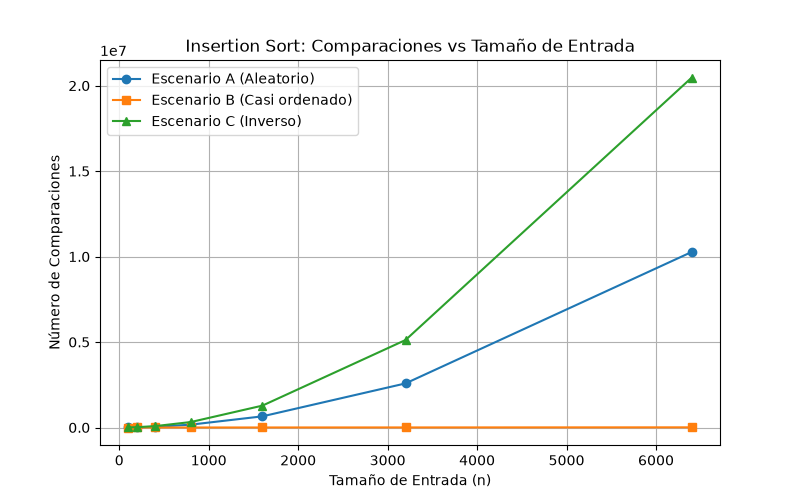
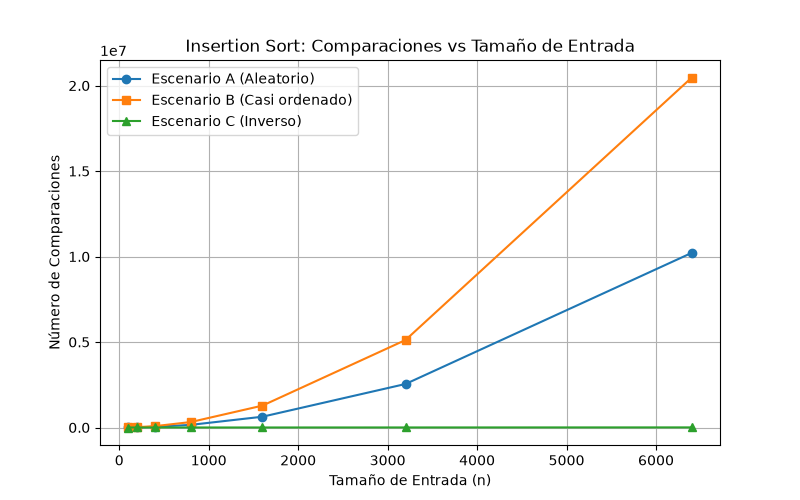
Actualiza codigo, graficas e informe completo de Tamiza para el Laboratorio 1

diff --git a/lab1-fundamentos-complejidad-recurrencias/algoritmos.py b/lab1-fundamentos-complejidad-recurrencias/algoritmos.py
@@ -1,21 +1,19 @@
-"""Módulo de implementación de algoritmos de ordenamiento.
+"""Módulo de algoritmos de ordenamiento con conteo de comparaciones.
 
-Este módulo contiene las implementaciones de Insertion Sort y Merge Sort,
-incluyendo el conteo explícito de comparaciones para análisis de complejidad.
+Implementa Insertion Sort y Merge Sort garantizando orden ascendente (menor a mayor).
 """
 
 
-def insertion_sort(lista: list) -> tuple[list, int]:
-    """Ordena una lista de elementos utilizando el algoritmo Insertion Sort.
+def insertion_sort(datos: list[int]) -> tuple[list[int], int]:
+    """Ordena una lista de enteros en orden ascendente usando Insertion Sort.
 
     Args:
-        lista (list): Lista de elementos comparables a ordenar.
+        datos (list[int]): Lista de números enteros a ordenar.
 
     Returns:
-        tuple[list, int]: Una tupla con la lista ordenada y el número
-        total de comparaciones realizadas.
+        tuple[list[int], int]: Lista ordenada y total de comparaciones realizadas.
     """
-    arr = lista.copy()
+    arr = datos.copy()
     comparaciones = 0
     n = len(arr)
 
@@ -24,7 +22,7 @@ def insertion_sort(lista: list) -> tuple[list, int]:
         j = i - 1
         while j >= 0:
             comparaciones += 1
-            if arr[j] < clave:
+            if arr[j] <= clave:
                 break
             arr[j + 1] = arr[j]
             j -= 1
@@ -34,19 +32,18 @@ def insertion_sort(lista: list) -> tuple[list, int]:
 
 
 def _mezclar(
-    izquierda: list, derecha: list
-) -> tuple[list, int]:
-    """Función auxiliar para combinar dos subarreglos ordenados en Merge Sort.
+    izquierda: list[int], derecha: list[int]
+) -> tuple[list[int], int]:
+    """Mezcla dos listas ordenadas en orden ascendente.
 
     Args:
-        izquierda (list): Subarreglo izquierdo ya ordenado.
-        derecha (list): Subarreglo derecho ya ordenado.
+        izquierda (list[int]): Sublista izquierda ordenada.
+        derecha (list[int]): Sublista derecha ordenada.
 
     Returns:
-        tuple[list, int]: Tupla con la lista combinada ordenada y el conteo
-        de comparaciones realizadas durante la mezcla.
+        tuple[list[int], int]: Sublista unida y total de comparaciones.
     """
-    resultado = []
+    resultado: list[int] = []
     comparaciones = 0
     i = 0
     j = 0
@@ -66,24 +63,21 @@ def _mezclar(
     return resultado, comparaciones
 
 
-def merge_sort(lista: list) -> tuple[list, int]:
-    """Ordena una lista de elementos utilizando el algoritmo Merge Sort.
+def merge_sort(datos: list[int]) -> tuple[list[int], int]:
+    """Ordena una lista de enteros en orden ascendente usando Merge Sort.
 
     Args:
-        lista (list): Lista de elementos comparables a ordenar.
+        datos (list[int]): Lista de números enteros a ordenar.
 
     Returns:
-        tuple[list, int]: Una tupla con la lista ordenada y el número
-        total de comparaciones realizadas durante el proceso.
+        tuple[list[int], int]: Lista ordenada y total de comparaciones realizadas.
     """
-    if len(lista) <= 1:
-        return lista, 0
+    if len(datos) <= 1:
+        return datos.copy(), 0
 
-    medio = len(lista) // 2
-    izq_ordenada, comp_izq = merge_sort(lista[:medio])
-    der_ordenada, comp_der = merge_sort(lista[medio:])
+    medio = len(datos) // 2
+    izq, comp_izq = merge_sort(datos[:medio])
+    der, comp_der = merge_sort(datos[medio:])
 
-    mezclada, comp_mezcla = _mezclar(izq_ordenada, der_ordenada)
-    total_comparaciones = comp_izq + comp_der + comp_mezcla
-
-    return mezclada, total_comparaciones
+    mezclada, comp_mezcla = _mezclar(izq, der)
+    return mezclada, comp_izq + comp_der + comp_mezcla

diff --git a/lab1-fundamentos-complejidad-recurrencias/datos.py b/lab1-fundamentos-complejidad-recurrencias/datos.py
@@ -1,20 +1,56 @@
-"""Generadores de lotes de registros para los escenarios de Tamiza."""
+"""Generadores de datos para pruebas de algoritmos de ordenamiento.
+
+Todos los escenarios asumen un orden objetivo ASCENDENTE (de menor a mayor).
+"""
+
 import random
 
-def generar_aleatorio(n: int, semilla: int = 42) -> list[int]:
-    """Escenario A: Lote en orden aleatorio."""
-    random.seed(semilla)
-    return random.sample(range(0, 10000000), n)
 
-def generar_casi_ordenado(n: int, semilla: int = 42) -> list[int]:
-    """Escenario B: 98% ordenado de mayor a menor y 2% desordenado al final."""
-    random.seed(semilla)
-    n_98 = int(n * 0.98)
-    n_2 = n - n_98
-    base = sorted(random.sample(range(10000, 10000000), n_98), reverse=True)
-    nuevos = random.sample(range(0, 9999), n_2)
-    return base + nuevos
+def generar_escenario_a(n: int, semilla: int = 42) -> list[int]:
+    """Genera el peor caso para orden ascendente: datos en orden descendente.
 
-def generar_inverso(n: int) -> list[int]:
-    """Escenario C: Orden inverso (de menor a mayor riesgo)."""
-    return list(range(n))
+    Args:
+        n (int): Cantidad de elementos a generar.
+        semilla (int, optional): Semilla para reproducibilidad. Valor por defecto: 42.
+
+    Returns:
+        list[int]: Lista de enteros ordenados estrictamente de mayor a menor.
+    """
+    return list(range(n, 0, -1))
+
+
+def generar_escenario_b(n: int, porcentaje_desorden: float = 0.05, semilla: int = 42) -> list[int]:
+    """Genera el mejor caso/casi ordenado: datos casi en orden ascendente con pocas inversiones.
+
+    Args:
+        n (int): Cantidad de elementos a generar.
+        porcentaje_desorden (float, optional): Proporción de elementos fuera de posición.
+        semilla (int, optional): Semilla para reproducibilidad. Valor por defecto: 42.
+
+    Returns:
+        list[int]: Lista de enteros casi ordenados de menor a mayor.
+    """
+    random.seed(semilla)
+    datos = list(range(1, n + 1))
+    intercambios = int(n * porcentaje_desorden)
+    for _ in range(intercambios):
+        i = random.randint(0, n - 1)
+        j = random.randint(0, n - 1)
+        datos[i], datos[j] = datos[j], datos[i]
+    return datos
+
+
+def generar_escenario_c(n: int, semilla: int = 42) -> list[int]:
+    """Genera el caso promedio: datos en orden totalmente aleatorio.
+
+    Args:
+        n (int): Cantidad de elementos a generar.
+        semilla (int, optional): Semilla para reproducibilidad. Valor por defecto: 42.
+
+    Returns:
+        list[int]: Lista de enteros ordenados aleatoriamente.
+    """
+    random.seed(semilla)
+    datos = list(range(1, n + 1))
+    random.shuffle(datos)
+    return datos
